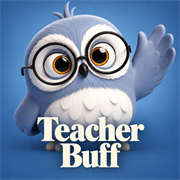
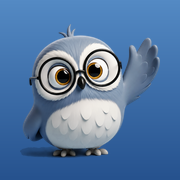
홈 화면 앱 시작화면·아이콘 개편 + 나눔의 방 블루
- manifest 배경 네이비, 투명 부엉이(any) + maskable 아이콘, 애플 아이콘 교체
- standalone 실행 시 세션당 1회 시작 애니메이션 (AppSplash)
- 나눔의 방: 핑크 → 블루 (blue.png)

diff --git a/app/globals.css b/app/globals.css
@@ -147,3 +147,54 @@ body {
     rgba(2, 6, 23, 0.85) 100%
   );
 }
+
+/* ── 홈 화면 앱 시작 애니메이션 (components/AppSplash.tsx) ── */
+.tnb-splash-screen {
+  display: none;
+}
+html.tnb-splash .tnb-splash-screen {
+  position: fixed;
+  inset: 0;
+  z-index: 9999;
+  display: flex;
+  flex-direction: column;
+  align-items: center;
+  justify-content: center;
+  background: radial-gradient(circle at 50% 45%, rgba(59, 113, 175, 0.35) 0%, rgba(15, 23, 42, 0) 55%), #0f172a;
+  animation: tnb-splash-out 0.4s ease 1.25s forwards;
+}
+.tnb-splash-owl {
+  width: 168px;
+  height: auto;
+  transform-origin: 50% 100%;
+  animation: tnb-owl-pop 0.7s cubic-bezier(0.34, 1.56, 0.64, 1) both;
+}
+.tnb-splash-word {
+  margin-top: 18px;
+  font-size: 26px;
+  font-weight: 800;
+  letter-spacing: -0.02em;
+  color: #fff;
+  animation: tnb-word-in 0.5s ease 0.45s both;
+}
+.tnb-splash-word span {
+  color: #93c5fd;
+}
+@keyframes tnb-owl-pop {
+  0% { opacity: 0; transform: translateY(24px) scale(0.6); }
+  60% { opacity: 1; transform: translateY(-6px) scale(1.04); }
+  80% { transform: translateY(0) scale(0.98) rotate(-3deg); }
+  100% { transform: translateY(0) scale(1) rotate(0); }
+}
+@keyframes tnb-word-in {
+  from { opacity: 0; transform: translateY(8px); }
+  to { opacity: 1; transform: translateY(0); }
+}
+@keyframes tnb-splash-out {
+  to { opacity: 0; visibility: hidden; }
+}
+@media (prefers-reduced-motion: reduce) {
+  .tnb-splash-owl,
+  .tnb-splash-word { animation: none; }
+  html.tnb-splash .tnb-splash-screen { animation-delay: 0.6s; }
+}

diff --git a/app/layout.tsx b/app/layout.tsx
@@ -1,6 +1,7 @@
 import type { Metadata } from "next";
 import "./globals.css";
 import { ProfileSync } from "@/components/ProfileSync";
+import { AppSplash, SPLASH_SCRIPT } from "@/components/AppSplash";
 
 const SITE_URL = "https://teacherbuff.com";
 const SITE_NAME = "T&B School | 티처버프";
@@ -96,12 +97,13 @@ export default function RootLayout({
   children: React.ReactNode;
 }) {
   return (
-    <html lang="ko">
+    <html lang="ko" suppressHydrationWarning>
       <head>
         <link
           rel="stylesheet"
           href="https://cdn.jsdelivr.net/gh/orioncactus/pretendard@v1.3.9/dist/web/variable/pretendardvariable-dynamic-subset.min.css"
         />
+        <script dangerouslySetInnerHTML={{ __html: SPLASH_SCRIPT }} />
         <link rel="manifest" href="/manifest.json" />
         <meta name="theme-color" content="#0f172a" />
         <link rel="apple-touch-icon" href="/apple-touch-icon.png" />
@@ -206,6 +208,7 @@ export default function RootLayout({
         />
       </head>
       <body className="font-sans">
+        <AppSplash />
         <ProfileSync />
         {children}
       </body>

diff --git a/components/AppSplash.tsx b/components/AppSplash.tsx
@@ -1,0 +1,17 @@
+// 홈 화면 앱(standalone)으로 열었을 때만, 세션당 한 번 보여주는 시작 애니메이션.
+// OS 시작화면(manifest background_color)과 같은 배경색에서 이어지도록 한다.
+// 첫 페인트 전에 <head> 스크립트가 html 에 .tnb-splash 를 붙여야 깜빡임이 없다 → 순수 CSS 로 동작.
+
+export const SPLASH_SCRIPT = `(function(){try{var s=window.matchMedia('(display-mode: standalone)').matches||navigator.standalone===true;if(s&&!sessionStorage.getItem('tnb-splash')){sessionStorage.setItem('tnb-splash','1');document.documentElement.classList.add('tnb-splash')}}catch(e){}})();`;
+
+export function AppSplash() {
+  return (
+    <div className="tnb-splash-screen" aria-hidden="true">
+      {/* eslint-disable-next-line @next/next/no-img-element */}
+      <img src="/splash-owl.png" alt="" className="tnb-splash-owl" />
+      <p className="tnb-splash-word">
+        Teacher<span>Buff</span>
+      </p>
+    </div>
+  );
+}

diff --git a/components/sections/RoomGallery.tsx b/components/sections/RoomGallery.tsx
@@ -66,10 +66,10 @@ const ROOMS: Room[] = [
     tagline: "함께 쓰는 선생님의 자료",
     intro: "선생님들이 만든 자료와 노하우를 서로 나누는 방이에요.",
     categories: ROOM_CATEGORIES.share,
-    glow: "244, 63, 94",
-    door: "#6b1f2e",
-    light: "#fda4af",
-    image: "/image/pink.png",
+    glow: "59, 130, 246",
+    door: "#1e3a6b",
+    light: "#93c5fd",
+    image: "/image/blue.png",
   },
 ];
 
